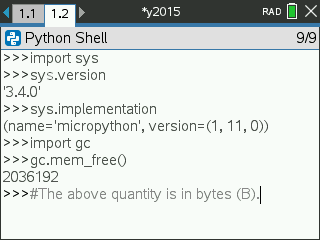
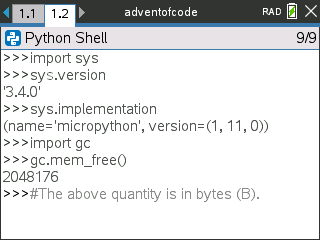
2015 Day 3 Part 2

Changed region(s): [[0.375, 0.0292, 0.625, 0.0875], [0.0625, 0.7, 0.1875, 0.7583], [0.9062, 0.0292, 0.9375, 0.0875]]

diff --git a/y2015/y2015d03.py b/y2015/y2015d03.py
@@ -1,0 +1,104 @@
+# ---- Solution Running Options ----------
+l=const(1) #If false, suppress console output
+#(Prepend "if l: " to every print statement in your
+# code for the above to take effect.)
+_part=const(1) #Which part to run, 1 or 2?
+
+
+# ---- Start of internal runner code --------
+import gc
+from time import *
+from mlstringhelper import *
+
+#BE CAREFUL! Very long lines lag the editor.
+input=MLStringHelper("""[input]""")
+
+def mround(val,p):
+  return "{:.{}f}".format(val,p)
+
+def printmeminfo():
+  print("Heap used/free (KB): "+mround(gc.mem_alloc()/1024,3)+"/"+mround(gc.mem_free()/1024,3))
+
+def main():
+  tstart=ticks_ms()
+  if _part==1:
+    part1()
+  else:
+    part2()
+  tend=ticks_ms()
+  
+  print("-----------------------------------")
+  print("Total time (s): "+mround(ticks_diff(tend,tstart)/1000,2))
+  printmeminfo()
+
+# ---- End of internal runner code ---------
+
+from array import array
+
+# ---- PART 1 ----------------------
+def part1():
+  pos=array('h')
+  pos.append(0) #Start at 0,0
+  pos.append(0) # [x,y]; len(pos)==2 always
+  known=array('h') #Flattened tuple list
+  known.append(0) #First house also gets a
+  known.append(0) # present!
+  
+  for c in input.get_line(0):
+    if c==">":
+      pos[0]+=1
+    elif c=="<":
+      pos[0]-=1
+    elif c=="^":
+      pos[1]+=1
+    elif c=="v":
+      pos[1]-=1
+    
+    visited=0 #bool
+    for i in range(0,len(known),2):
+      if known[i]==pos[0] and known[i+1]==pos[1]:
+        visited=1
+    if not visited: #Record new house!
+      known.append(pos[0])
+      known.append(pos[1])
+    
+  if l: print("Present-receiving houses: "+str(int(len(known)/2)))
+
+
+# ---- PART 2 ----------------------
+def part2():
+  pos=array('h')
+  pos.append(0) #Start at 0,0
+  pos.append(0) # [x,y]; len(pos)==2 always
+  robo_pos=array('h') #Same as above, but for
+  robo_pos.append(0) # robo-santa
+  robo_pos.append(0)
+  known=array('h') #Flattened tuple list
+  known.append(0) #First house also gets a
+  known.append(0) # present!
+  
+  for i,c in enumerate(input.get_line(0)):
+    curr_pos=pos if i%2==0 else robo_pos
+    
+    if c==">":
+      curr_pos[0]+=1
+    elif c=="<":
+      curr_pos[0]-=1
+    elif c=="^":
+      curr_pos[1]+=1
+    elif c=="v":
+      curr_pos[1]-=1
+    
+    visited=0 #bool
+    for i in range(0,len(known),2):
+      if known[i]==curr_pos[0] and known[i+1]==curr_pos[1]:
+        visited=1
+    if not visited: #Record new house!
+      known.append(curr_pos[0])
+      known.append(curr_pos[1])
+    
+  if l: print("Present-receiving houses: "+str(int(len(known)/2)))
+
+
+# ---- Launch! -----------------------
+main()

diff --git a/README.md b/README.md
@@ -1,6 +1,6 @@
 # aoc-nspire
 
-### Latest completed problem: 2015 Day 2 Part 2 **(4/262)**
+### Latest completed problem: 2015 Day 3 Part 2 **(6/262)**
 
 The goal is simple: **Solve every Advent of Code problem in TI-Nspire MicroPython using just over 2MB of heap space per problem.** In a world full of bloated, vibecoded slop, it's important to remember that it *is* possible to do meaningful work using small amounts of memory regardless of how high-level your programming language may seem. All it takes is human intelligence and patience.
 
@@ -9,6 +9,7 @@ Here are the details of my platform on a blank shell:
 ![A screenshot of the TI-Nspire MicroPython Shell showing all essential information about its implementation. Python version 3.4.0, MicroPython version 1.11.0, and 2036192 bytes of RAM are free.](assets/nspirepython.png)
 
 I never even use [`@micropython.native`](https://docs.micropython.org/en/v1.9.3/pyboard/reference/speed_python.html#the-native-code-emitter) or [`@micropython.viper`](https://docs.micropython.org/en/v1.9.3/pyboard/reference/speed_python.html#the-viper-code-emitter) due to it being unavailable as an anti-exploit measure by TI. I consider this to be just another challenge to time-optimize my code as much as possible.
+
 ## Code & Measurements
 
 The file named `adventofcode.tns.7z` is my personal backup of the native TI-Nspire document in which all my solution code is contained. As it contains my AoC inputs, it has been encrypted. Don't mind it. It counts as source code.
@@ -27,4 +28,4 @@ First of all, I apologize for the very hacky nature of these. It Works On My Mac
 
 ## AoC Policies
 
-In compliance with [Advent of Code's policies](https://adventofcode.com/2025/about#:~:text=please%20don%27t%20include%20parts%20of%20Advent%20of%20Code%20like%20the%20puzzle%20text%20or%20your%20inputs) regarding copying and sharing, my inputs are not publicly included in this repository. Please [open an issue](https://github.com/twisted-nematic57/aoc-nspire/issues/new?labels=accidentally+left+inputs) if you discover I accidentally left one my unencrypted inputs visible.
+In compliance with [Advent of Code&#39;s policies](https://adventofcode.com/2025/about#:~:text=please%20don%27t%20include%20parts%20of%20Advent%20of%20Code%20like%20the%20puzzle%20text%20or%20your%20inputs) regarding copying and sharing, my inputs are not publicly included in this repository. Please [open an issue](https://github.com/twisted-nematic57/aoc-nspire/issues/new?labels=accidentally+left+inputs) if you discover I accidentally left one my unencrypted inputs visible.

diff --git a/RUNTIMES.md b/RUNTIMES.md
@@ -2,7 +2,7 @@
 
 All values recorded here are measures of **core algorithmic runtime** and disregard initial script initialization & output printing. Print statements are disabled by changing the global variable `l` to 0 at the top of the solution source code; Because it is declared as `const`, *no checks are made at runtime* to decide if print statements should run or not. See [template.py](./template.py) to see the code corresponding to all this.
 
-All measurements were taken while no pages except a clean Python Shell were open to minimize interfering activity. All measurements were taken on a non-overclocked Revision AU TI-Nspire CX II CAS that was not plugged into USB and had no accessories attached.
+All measurements were taken on a non-overclocked Revision AU TI-Nspire CX II CAS that was not plugged into USB and had no accessories attached.
 
 Runtimes slightly fluctuate run-to-run. Absolute minimum, best-case values that have ever occured over dozens of runs are recorded in the tables below.
 
@@ -14,7 +14,7 @@ Note that `ticks_ms()` on this MicroPython platform has 0.01 second precision.
 | --------------- | ---------------- | ---------------- |
 | 1               | 0.02             | 0.01             |
 | 2               | 0.91             | 0.90             |
-| 3               |                  |                  |
+| 3               | 51.38            | 49.40            |
 | 4               |                  |                  |
 | 5               |                  |                  |
 | 6               |                  |                  |